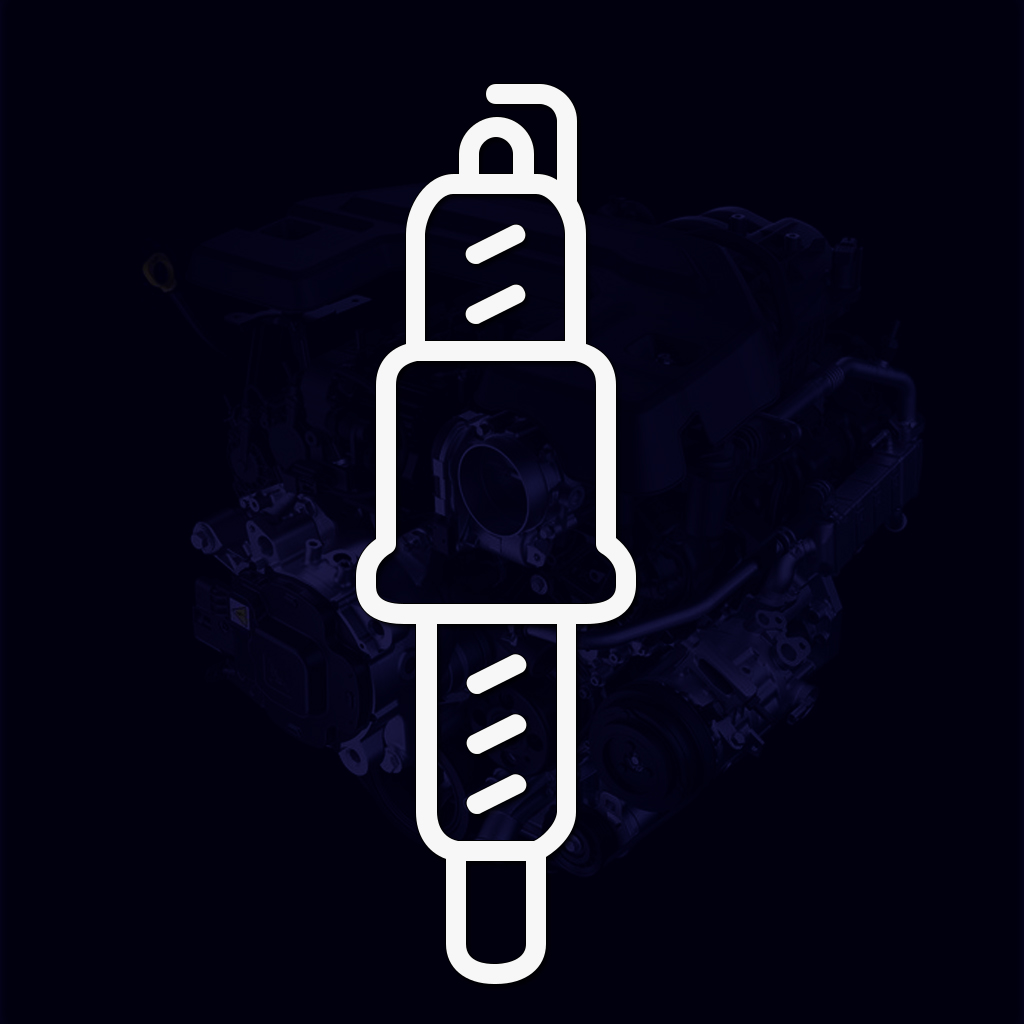
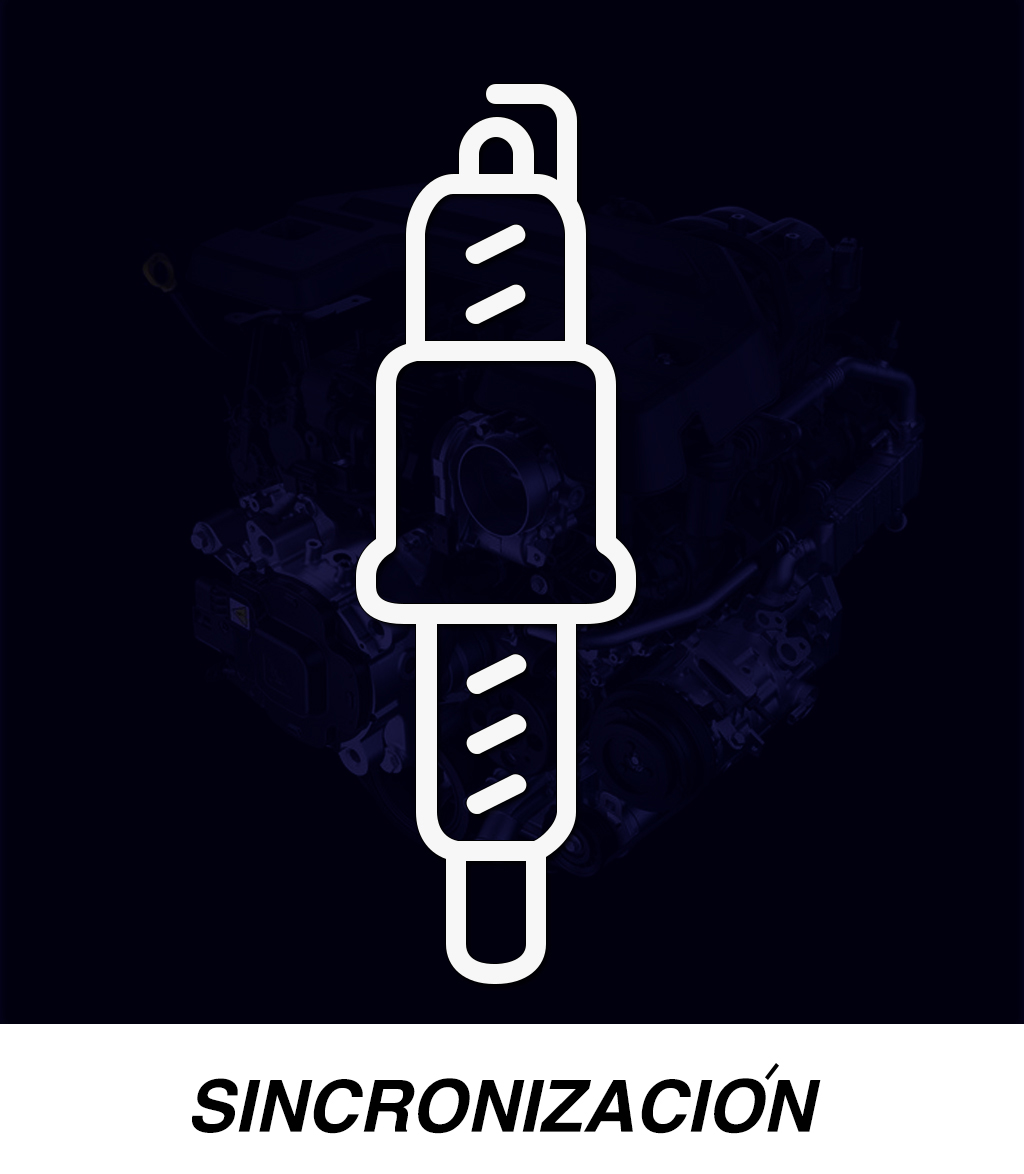
Services

diff --git a/Services.html b/Services.html
@@ -20,13 +20,13 @@
     height: 20vmin;}
     article{
     
-    border-radius: 5px;    
+    border-radius: 20px;    
     display: block;
     margin-left: auto;
     margin-right: auto;
-    background-color: rgb(199, 199, 199);
-    width: 95%;
-    height: auto;}
+    background-color: rgb(5, 0, 75);
+    width: 90%;
+    height:auto;}
     
     /*Structure Basic*/
 
@@ -204,57 +204,58 @@ background-color: rgb(3, 0, 19);
 width: 20vmax;
 height: 18vmin;
 text-align: center;
+}}
+article h1{
+font-family: Arial, Helvetica, sans-serif; 
+text-align: center;
+background-color: rgb(13, 0, 196);
+color: white;
+font-size: 30px;}
+.Ser{
+text-align: center;
+
+  
+}
+.Ser a img{
+width: 24vmin;
+padding: 10px; 
+transition: all 1s;
+border-radius: 20px;   
+
+}
+.Ser a img:hover{
+width: 28vmin;
+padding: 20px; 
+transition: all 1s;   
 
 }
 
+.sin{
+display: block;
+margin-right: auto;
+margin-left: auto;
+width: 80vmin; 
+
+}
+.sin p{
+font-family: Arial, Helvetica, sans-serif;
+text-align: center;
+font-size: 2.5vmin;
+background-color: rgba(6, 0, 92, 0);
+color: rgb(255, 255, 255);
 
 
 }
-
-.S1{
-background-color: black;
-width: 48%;
-height: 400px;
-display: inline-block;
-
-}
-.S2{
-background-color: black;
-width: 48%;
-height: 400px;  
-display: inline-block; 
-float: right; 
+.sin h1{
+ 
+display: block;
+margin-left: auto;
+margin-right: auto;  
+width: 50vmin;
+border-radius: 20px;
+font-size: 3vmin;
 }
 
-.S3{
-background-color: black;
-width: 48%;
-height: 400px;
-display: inline-block;
-
-}
-.S4{
-background-color: black;
-width: 48%;
-height: 400px;  
-display: inline-block; 
-float: right; 
-}
-
-.S5{
-background-color: black;
-width: 48%;
-height: 400px;
-display: inline-block;
-
-}
-.S6{
-background-color: black;
-width: 48%;
-height: 400px;  
-display: inline-block; 
-float: right; 
-}
 
 
 
@@ -279,34 +280,123 @@ float: right;
 
 <!--Contain And Text-->
 <article>
+    
+    <h1 style="background-color: rgb(4, 0, 255); color: white;">SERVICIOS</h1>
+    <br>
+    <div class="Ser">
+      <a href=""><img src="img/Bujia.jpg" alt=""></a>
+      <a href=""><img src="img/Scanner.jpg" alt=""></a>  
+      <a href=""><img src="img/Latoneria.jpg" alt=""></a>  
+      <a href=""><img src="img/Brakes.jpg" alt=""></a>  
+      <a href=""><img src="img/Mantenimiento.jpg" alt=""></a>  
+      <a href=""><img src="img/Tecno.jpg" alt=""></a>    
+    </div>
+    <br>
+    
+    <Div class="sin">
 
+    <h1>Sincronizacion</h1>
+    <p>
+      -Revision de bujias
+      <br> 
+      -Revision de sistema de admision de combustible 
+      <br>
+      -Revision y Cambio de Piezas por desgaste
+      <br>
+      
+       
+    </p>
+  
+    </Div>
+<br>
+    <Div class="sin">
 
-<div class="S1">
+        <h1>Servicios de Scanner</h1>
+        <p>
+          -Diagnostico de Fallas Electronicas
+          <br> 
+          -Diagnostico del Computador de Vehiculo
+          <br>
+          -Regular las Funciones del Motor
+          <br>
+          
+           
+        </p>
+      
+        </Div>
+<br>
+        <Div class="sin">
 
-</div>
+        <h1>Latoneria y Pintura</h1>
+        <p>
+          -Restauracion de Piezas
+          <br> 
+          -Pintura y Prevencion de Oxido
+          <br>
+        
+           
+        </p>
+      
+        </Div>
+<br>
+        <Div class="sin">
 
-<div class="S2">
+        <h1>FRENOS Y SUSPENSION</h1>
+        <p>
+          -Instalacion de Amortiguadores
+          <br> 
+          -Instalacion de Rotulas y Barras
+          <br>
+          -Ajuste de Frenos y Suspension
+          <br>
+          -Graduacion de Frenos 
+          
+           
+        </p>
+      
+        </Div>
+<br>
+        <Div class="sin">
+
+        <h1>Mantenimiento General</h1>
+        <p>
+          -Revision Preventiva
+          <br> 
+          -Sistema Electrico
+          <br>
+          -Refrigeracion
+          <br>
+          
+          
+           
+        </p>
+      
+        </Div>
+        <br>
+        <Div class="sin">
+
+            <h1>Preparacion Tecnomecanica</h1>
+            <p>
+              -Revision General
+              <br> 
+              -Revision de sistema electrico
+              <br>
+              -Revision de Suspension y Frenos
+              <br>
+              -Revision de Motor
+              
+              
+               
+            </p>
+          
+            </Div>
+    
+    
     
 </div>
 
-<div class="S3">
-    
-</div>
+<br>
 
-
-<div class="S4">
-    
-</div>
-
-
-<div class="S5">
-    
-</div>
-
-
-<div class="S6">
-    
-</div>
 
 
 
@@ -345,6 +435,7 @@ float: right;
 <div class="Copyright">
 <p><strong>@Copyright JeepStationSas</strong></p>
 </div>
+
 <!--IFooter INfo-->
 </body>
 </html>

diff --git a/About us.html b/About us.html
@@ -289,7 +289,7 @@ text-align: center;
     </p> 
     <br>
     <p>
-    Empresa Fundada en el año 2007 por el Ceo de la empresa Wilson alejandro alfonso sanchez, Jefe Actual de la empresa y experto en las 
+    Empresa Fundada en el año 2007 por el CEO  (Wilson alejandro alfonso sanchez), Jefe Actual de la empresa y experto en las 
     lineas jeep, dodge, chrysler. con amplio conocimiento en diagnostico y reparacion de automotores con mas de 25 años de experiencia en el 
     campo de la mecanica automotriz. Actualmente cuenta con una unica sede en la ciudad de bogota. 
     </p>
@@ -303,18 +303,20 @@ text-align: center;
     <br>
     <p>
     <img src="img/Jeep 3.png" alt="" id="profile2">
-    JeepStationSas Cuenta con mas de 15 años de Experiencia en el servicio de Diagnostico y Reparacion de automotores, actualmente su sede reside 
-    en la ciudad de bogota.Dc en colombia, nos especializamos en dar el mejor servicio al mejor precio. tenemos personal experimentado que cuidaran 
-    de tu motor, contamos con gran cantidad de servicios de reparacion para tu vehiculo.
+    La mision de nuestra empresa es dar la comodidad y tranquilidad de poder usar el vehiculo personal o familiar para viajar,
+    con el fin de promover la seguridad automotriz de su vehiculo, guiando y aconsejando a nuestros clientes sobre el estado de 
+    su vehiculo.
     </p> 
     <br>
     <p>
-    Empresa Fundada en el año 2007 por el Ceo de la empresa Wilson alejandro alfonso sanchez, Jefe Actual de la empresa y experto en las 
-    lineas jeep, dodge, chrysler. con amplio conocimiento en diagnostico y reparacion de automotores con mas de 25 años de experiencia en el 
-    campo de la mecanica automotriz. Actualmente cuenta con una unica sede en la ciudad de bogota.
-    Empresa Fundada en el año 2007 por el Ceo de la empresa Wilson alejandro alfonso sanchez, Jefe Actual de la empresa y experto en las 
-    lineas jeep, dodge, chrysler. con amplio conocimiento en diagnostico y reparacion de automotores con mas de 25 años de experiencia en el 
-    campo de la mecanica automotriz. Actualmente cuenta con una unica sede en la ciudad de bogota. 
+    Proporcionar servicios de calidad y ofrecer soluciones duraderas y fiables que conserven los vehiculos de nuestros clientes 
+    en su mejor desempeño y calidad, para el uso personal y familiar. ofrecer precios y calidades de servicio y productos para la 
+    comodidad de nuestros clientes, que puedan optar.
+    De esta manera mejorar su vehiculo para que obtenga mejor uso en consumo de combustible y mas.
+
+    
+    
+
     </p>
     
 </article>
